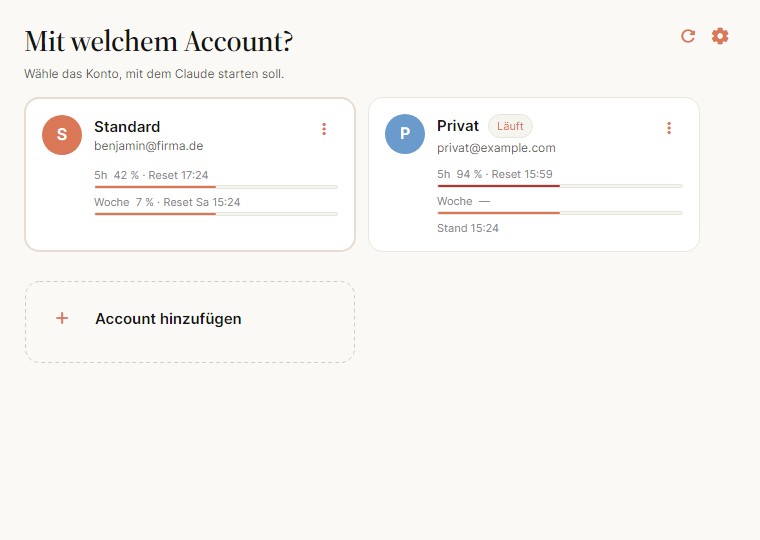
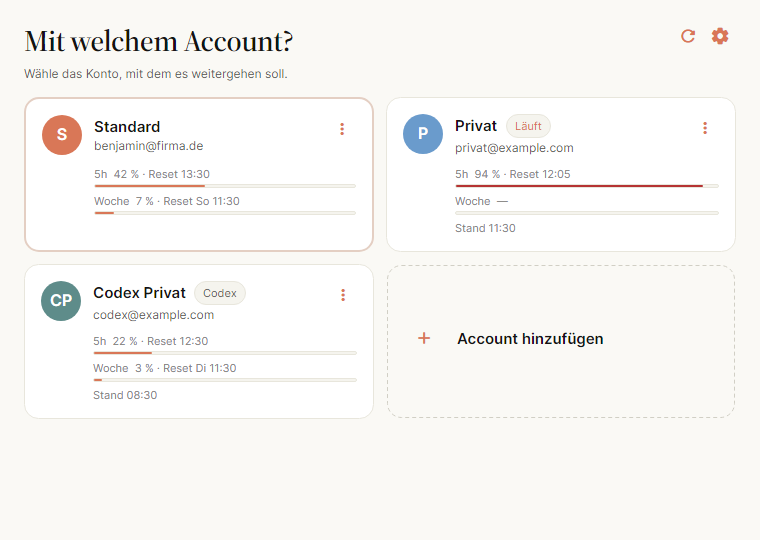
docs: rewrite the readme for the public repository
Logo header, badges, table of contents, a feature list, a screenshot
gallery, download table for the release files, a quick start, a section
on Codex accounts and how to cut a release. The screenshots are rendered
fresh from the screenshot tests.

diff --git a/README.md b/README.md
@@ -1,54 +1,138 @@
-# MCACC — Claude Account Switcher
+<div align="center">
 
-MCACC startet **Claude Desktop** und **Claude Code** mit dem Account, den du auswählst — ohne
-dich jedes Mal ab- und wieder anzumelden.
+<img src="assets/icon/mcacc-256.png" alt="MCACC-Logo" width="112" height="112">
 
-Jeder Account bekommt ein eigenes Profil: Claude Desktop startet mit `--user-data-dir`, Claude
-Code mit `CLAUDE_CONFIG_DIR`. Beides zeigt auf einen Ordner unter `~/.mcacc/`. Dein heutiges
-Setup bleibt unangetastet und heißt in MCACC **„Standard“**.
+# MCACC
 
-![MCACC – Account-Auswahl](docs/screenshots/account-picker.png)
+**Mehrere Claude- und Codex-Accounts auf einem Rechner – ein Klick statt ab- und wieder anmelden.**
 
-![MCACC – Zielauswahl](docs/screenshots/target-picker.png)
+[![Release](https://img.shields.io/github/v/release/BenjaminBiber/MCACC?sort=semver&color=d97757)](https://github.com/BenjaminBiber/MCACC/releases/latest)
+[![Lizenz: MIT](https://img.shields.io/badge/Lizenz-MIT-6a9bcc)](LICENSE)
+![Plattformen](https://img.shields.io/badge/Windows%2011%20%7C%20macOS%2014%2B-lightgrey)
+![.NET 10](https://img.shields.io/badge/.NET-10-512bd4)
+![Avalonia](https://img.shields.io/badge/UI-Avalonia-8b44ac)
+
+[Download](https://github.com/BenjaminBiber/MCACC/releases/latest) ·
+[Schnellstart](#schnellstart) ·
+[Bedienung](#bedienung) ·
+[Entwicklung](#entwicklung)
+
+<img src="docs/screenshots/account-picker.png" alt="MCACC – Account-Auswahl mit Nutzungslimits" width="760">
+
+</div>
+
+MCACC startet **Claude Desktop** und **Claude Code** – und ebenso die **ChatGPT-/Codex-App** und die
+**Codex-CLI** – mit dem Account, den du auswählst. Jeder Account bekommt ein eigenes, sauber getrenntes
+Profil; Abmelden, Anmelden und Konfigurationen hin- und herkopieren entfallen.
+
+Technisch startet MCACC Claude Desktop mit `--user-data-dir` und Claude Code mit `CLAUDE_CONFIG_DIR`
+(bei Codex: `CODEX_HOME`). Alles zeigt auf einen Ordner unter `~/.mcacc/`. Dein heutiges Setup bleibt
+unangetastet und heißt in MCACC **„Standard“**.
+
+## Inhalt
+
+- [Funktionen](#funktionen)
+- [Screenshots](#screenshots)
+- [Voraussetzungen](#voraussetzungen)
+- [Installation](#installation)
+- [Schnellstart](#schnellstart)
+- [Bedienung](#bedienung)
+  - [Infobereich und Menüleiste](#infobereich-und-menüleiste)
+  - [Anmelden](#anmelden)
+  - [Mehrere Accounts gleichzeitig](#mehrere-accounts-gleichzeitig)
+  - [Tastatur](#tastatur)
+  - [Accounts anlegen](#accounts-anlegen)
+  - [Accounts entfernen](#accounts-entfernen)
+  - [Info & Statistik](#info--statistik)
+  - [Einstellungen](#einstellungen)
+- [Codex-Accounts](#codex-accounts)
+- [Datenablage](#datenablage)
+- [Bekannte Einschränkungen](#bekannte-einschränkungen)
+- [Entwicklung](#entwicklung)
+- [Release erstellen](#release-erstellen)
+- [Lizenz](#lizenz)
+
+## Funktionen
+
+- **Ein Profil pro Account** für Claude Desktop, Claude Code, die ChatGPT-/Codex-App und die Codex-CLI.
+- **Nutzungslimits auf einen Blick:** 5-Stunden- und Wochenfenster je Account, mit Verlauf über 24 Stunden
+  oder 7 Tage.
+- **Info & Statistik:** Tokens, Sessions, Modelle, Projekte und geschätzte API-Kosten aus den lokalen
+  Claude-Code-Logs.
+- **Anmeldung landet im richtigen Profil:** MCACC fängt den `claude://`-Rücksprung aus dem Browser ab und
+  reicht ihn an den gewählten Account weiter.
+- **Mehrere Accounts gleichzeitig** (optional): jede Desktop-Instanz in einem eigenen Fenster.
+- **Infobereich bzw. Menüleiste:** Accounts und Limits direkt aus dem Tray-Menü starten.
+- **Einstellungen übernehmen:** `CLAUDE.md`, `settings.json`, Agents, Skills, Commands und MCP-Server aus
+  einem vorhandenen Account kopieren – nie Zugangsdaten.
+- **Tastaturbedienung:** zweimal Enter startet den zuletzt genutzten Account im zuletzt genutzten Ziel.
+- Helles und dunkles Design, Windows 11 und macOS 14+.
+
+## Screenshots
+
+<table>
+  <tr>
+    <td width="50%"><img src="docs/screenshots/target-picker.png" alt="Zielauswahl: Claude Desktop oder Claude Code"><br><sub><b>Ziel wählen</b> – Desktop-App oder Terminal mit Claude Code</sub></td>
+    <td width="50%"><img src="docs/screenshots/account-picker-dark.png" alt="Account-Auswahl im dunklen Design"><br><sub><b>Dunkles Design</b> – folgt der Systemeinstellung</sub></td>
+  </tr>
+  <tr>
+    <td width="50%"><img src="docs/screenshots/add-account.png" alt="Dialog Account hinzufügen"><br><sub><b>Account anlegen</b> – Dienst, Farbe und übernommene Einstellungen</sub></td>
+    <td width="50%"><img src="docs/screenshots/info.png" alt="Info und Statistik eines Accounts"><br><sub><b>Info & Statistik</b> – Konto, Limits und Claude-Code-Nutzung</sub></td>
+  </tr>
+</table>
 
 ## Voraussetzungen
 
 - Windows 11 oder macOS 14 (Sonoma) und neuer
-- Claude Desktop, falls du es starten willst
-- Claude Code (`claude` im PATH), falls du es starten willst
+- Claude Desktop bzw. die ChatGPT-/Codex-App, falls du sie starten willst
+- Claude Code (`claude` im PATH) bzw. die Codex-CLI (`codex`), falls du sie starten willst
 - Zum Selberbauen: .NET SDK 10.0.301 oder neuer
 
 ## Installation
 
+Fertige Builds liegen unter [**Releases**](https://github.com/BenjaminBiber/MCACC/releases/latest).
+
+| System | Datei | Hinweis |
+| --- | --- | --- |
+| Windows 11 | `MCACC-<version>-win-x64-setup.exe` | Empfohlen. Installiert ohne Adminrechte nach `%LOCALAPPDATA%\Programs\MCACC`. |
+| Windows 11 | `MCACC-<version>-win-x64.zip` | Portabel: entpacken, `MCACC.exe` starten. |
+| macOS 14+ | `MCACC-<version>-macos-universal.dmg` | Apple Silicon und Intel. `MCACC.app` nach *Programme* ziehen. |
+
 ### Windows
 
-1. `MCACC-<version>-win-x64.zip` entpacken.
-2. `MCACC.exe` starten.
+Installer ausführen oder das Zip entpacken und `MCACC.exe` starten. Beim ersten Start meldet sich
+**SmartScreen**, weil die Datei nicht signiert ist: *Weitere Informationen* → *Trotzdem ausführen*.
 
-Beim ersten Start meldet sich **SmartScreen**, weil die Datei nicht signiert ist:
-*Weitere Informationen* → *Trotzdem ausführen*.
-
-Selber bauen:
-
-```powershell
-.\scripts\publish-windows.ps1 -Version 0.1.0
-```
+Der Installer legt einen Startmenü-Eintrag an und entfernt beim Deinstallieren auch den Autostart-Eintrag.
 
 ### macOS
 
-Auf dem Mac bauen:
+DMG öffnen und `MCACC.app` in den Ordner *Programme* ziehen. Die App ist nur **ad-hoc signiert**, deshalb
+beim ersten Start entweder Rechtsklick → *Öffnen*, oder einmalig:
 
 ```bash
-./scripts/build-macos.sh --arch arm64 --version 0.1.0
-# oder: --arch universal   (arm64 + x64 in einem Bundle)
+xattr -dr com.apple.quarantine /Applications/MCACC.app
 ```
 
-Das Ergebnis liegt in `artifacts/MCACC.app`. Es ist nur **ad-hoc signiert**, deshalb beim
-ersten Start entweder Rechtsklick → *Öffnen*, oder einmalig:
+### Selbst bauen
+
+```powershell
+# Windows: Zip, mit -Installer zusätzlich setup.exe (braucht Inno Setup 6)
+.\scripts\publish-windows.ps1 -Version 0.1.0 -Installer
+```
 
 ```bash
-xattr -dr com.apple.quarantine MCACC.app
+# macOS: MCACC.app, Zip und DMG unter artifacts/
+./scripts/build-macos.sh --arch universal --version 0.1.0   # oder --arch arm64 / x64
 ```
+
+## Schnellstart
+
+1. MCACC starten. Dein bisheriges Setup erscheint als Account **„Standard“**.
+2. **Account hinzufügen** → Namen vergeben, Dienst (Claude oder Codex) und Farbe wählen, optional
+   Einstellungen aus „Standard“ übernehmen.
+3. Den neuen Account wählen, dann **Claude Desktop** oder **Claude Code**.
+4. Im neuen Profil einmal anmelden. Ab dann reicht ein Klick – oder zweimal Enter.
 
 ## Bedienung
 
@@ -167,19 +251,36 @@ Die Kosten sind eine **Schätzung** zu API-Listenpreisen („≈“). Mit einem 
 
 ### Einstellungen
 
-- **Terminal für Claude Code** — nur tatsächlich installierte werden angeboten.
+- **Terminal für die Kommandozeile** — nur tatsächlich installierte werden angeboten.
 - **Shell im Windows Terminal** — PowerShell 7, Windows PowerShell oder Eingabeaufforderung.
 - **Nach dem Start ausblenden** — MCACC bleibt im Infobereich bzw. in der Menüleiste.
 - **Bei der Anmeldung starten** — legt den Autostart-Eintrag an bzw. entfernt ihn (siehe
   *Infobereich und Menüleiste*).
 - **Mehrere Accounts gleichzeitig öffnen** — die Desktop-App bleibt beim Start eines anderen
   Accounts offen, statt nach Rückfrage neu zu starten (siehe *Mehrere Accounts gleichzeitig*).
+- **Claude-Limits über die Statusline mitschreiben** — MCACC trägt sich als Statusline in die
+  `settings.json` der Claude-Accounts ein und merkt sich die Limits, die Claude Code nach jeder Antwort
+  meldet. Kann MCACC die Limits nicht abrufen, zeigt die Kachel diesen Stand. Accounts mit eigener
+  Statusline bleiben unangetastet.
 - **Projekte in der Statistik** — alle Projekte aus den Claude-Code-Logs aller Accounts, nach
   Tokens sortiert. Ein Projekt ohne Häkchen zählt auf der Info-Seite nirgends mit: nicht in Tokens,
   Kosten, Sessions, Tagesbalken, Modellen, Top-Projekten und Kalender. Geschätzte Kalendertage
   werden anteilig gekürzt, weil Claudes Zusammenfassung keine Projekte kennt. Die Info-Seite nennt,
   wie viele Projekte des Accounts ausgeschlossen sind.
 - **Datenordner** mit Knopf zum Öffnen im Explorer bzw. Finder.
+
+## Codex-Accounts
+
+Beim Anlegen lässt sich als Dienst **Codex** statt Claude wählen. Die Kachel trägt dann das Abzeichen
+„Codex“, und die Zielseite bietet **ChatGPT** (die Desktop-App aus dem Paket `OpenAI.Codex` bzw.
+`ChatGPT.app`) und **Codex** (die CLI im Terminal) an.
+
+- Die CLI startet mit eigenem `CODEX_HOME` unter `profiles/<id>/codex/`, die Desktop-App mit eigenem
+  Datenordner unter `profiles/<id>/codex-desktop/`.
+- Übernehmen lassen sich `config.toml` (Pfade werden auf das neue Profil umgeschrieben, damit es nicht
+  doch wieder im Standardordner landet), `AGENTS.md`, Skills und Prompts. Plugins, Pakete und Caches
+  werden nie kopiert.
+- Die Limits kommen aus dem Endpunkt, den auch die Codex-CLI nutzt, und aus ihren lokalen Rollout-Logs.
 
 ## Datenablage
 
@@ -192,6 +293,8 @@ Die Kosten sind eine **Schätzung** zu API-Listenpreisen („≈“). Mit einem 
   stats/<id>.json                Index der gelesenen Claude-Code-Logs
   profiles/<id>/desktop/         --user-data-dir von Claude Desktop
   profiles/<id>/claude/          CLAUDE_CONFIG_DIR von Claude Code
+  profiles/<id>/codex/           CODEX_HOME der Codex-CLI (Codex-Accounts)
+  profiles/<id>/codex-desktop/   Datenordner der ChatGPT-/Codex-App (Codex-Accounts)
   launch/<id>.cmd | .command     bei jedem Start neu erzeugt
   logs/mcacc-YYYYMMDD.log        7 Tage; Kommandos und Variablennamen, nie Tokens
 ```
@@ -249,10 +352,29 @@ dotnet test MCACC.slnx
 - Ein Release-Build, der aus Rider oder `bin/Release` startet, biegt den Autostart-Eintrag auf sich
   um, bis die installierte Kopie wieder startet; zum Ausprobieren `MCACC_HOME` setzen.
 
-## Lizenzen der mitgelieferten Schriften
+## Release erstellen
+
+Releases entstehen über den Workflow [**Release**](.github/workflows/release.yml):
+
+1. Auf GitHub unter **Actions** → **Release** → **Run workflow**.
+2. Im Dropdown die Erhöhung wählen: `patch` (1.2.3 → 1.2.4), `minor` (→ 1.3.0) oder `major` (→ 2.0.0).
+   Grundlage ist der höchste Tag `v*`; ohne Tag beginnt die Zählung bei 0.0.0.
+3. Optional **Pre-Release** ankreuzen oder mit **dry run** nur bauen, ohne Tag und Release.
+
+Der Workflow testet und baut auf Windows (Zip und Installer) und macOS (Universal-App als Zip und DMG),
+legt den Tag `v<version>` an und hängt alle Dateien mit automatisch erzeugten Release-Notes an.
+
+## Lizenz
+
+MCACC steht unter der [MIT-Lizenz](LICENSE).
+
+Mitgelieferte Schriften:
 
 - **Source Serif 4** (Adobe) — SIL Open Font License 1.1, siehe
   `src/Mcacc.App/Assets/Fonts/OFL.txt`
 - **Material Icons Round** (Google) — Apache License 2.0, siehe
   `src/Mcacc.App/Assets/Fonts/LICENSE-material-icons.txt`
 - **Inter** — über das Paket `Avalonia.Fonts.Inter`, SIL Open Font License 1.1
+
+MCACC ist ein unabhängiges Projekt und steht in keiner Verbindung zu Anthropic oder OpenAI. „Claude“,
+„ChatGPT“ und „Codex“ sind Marken ihrer jeweiligen Inhaber.
